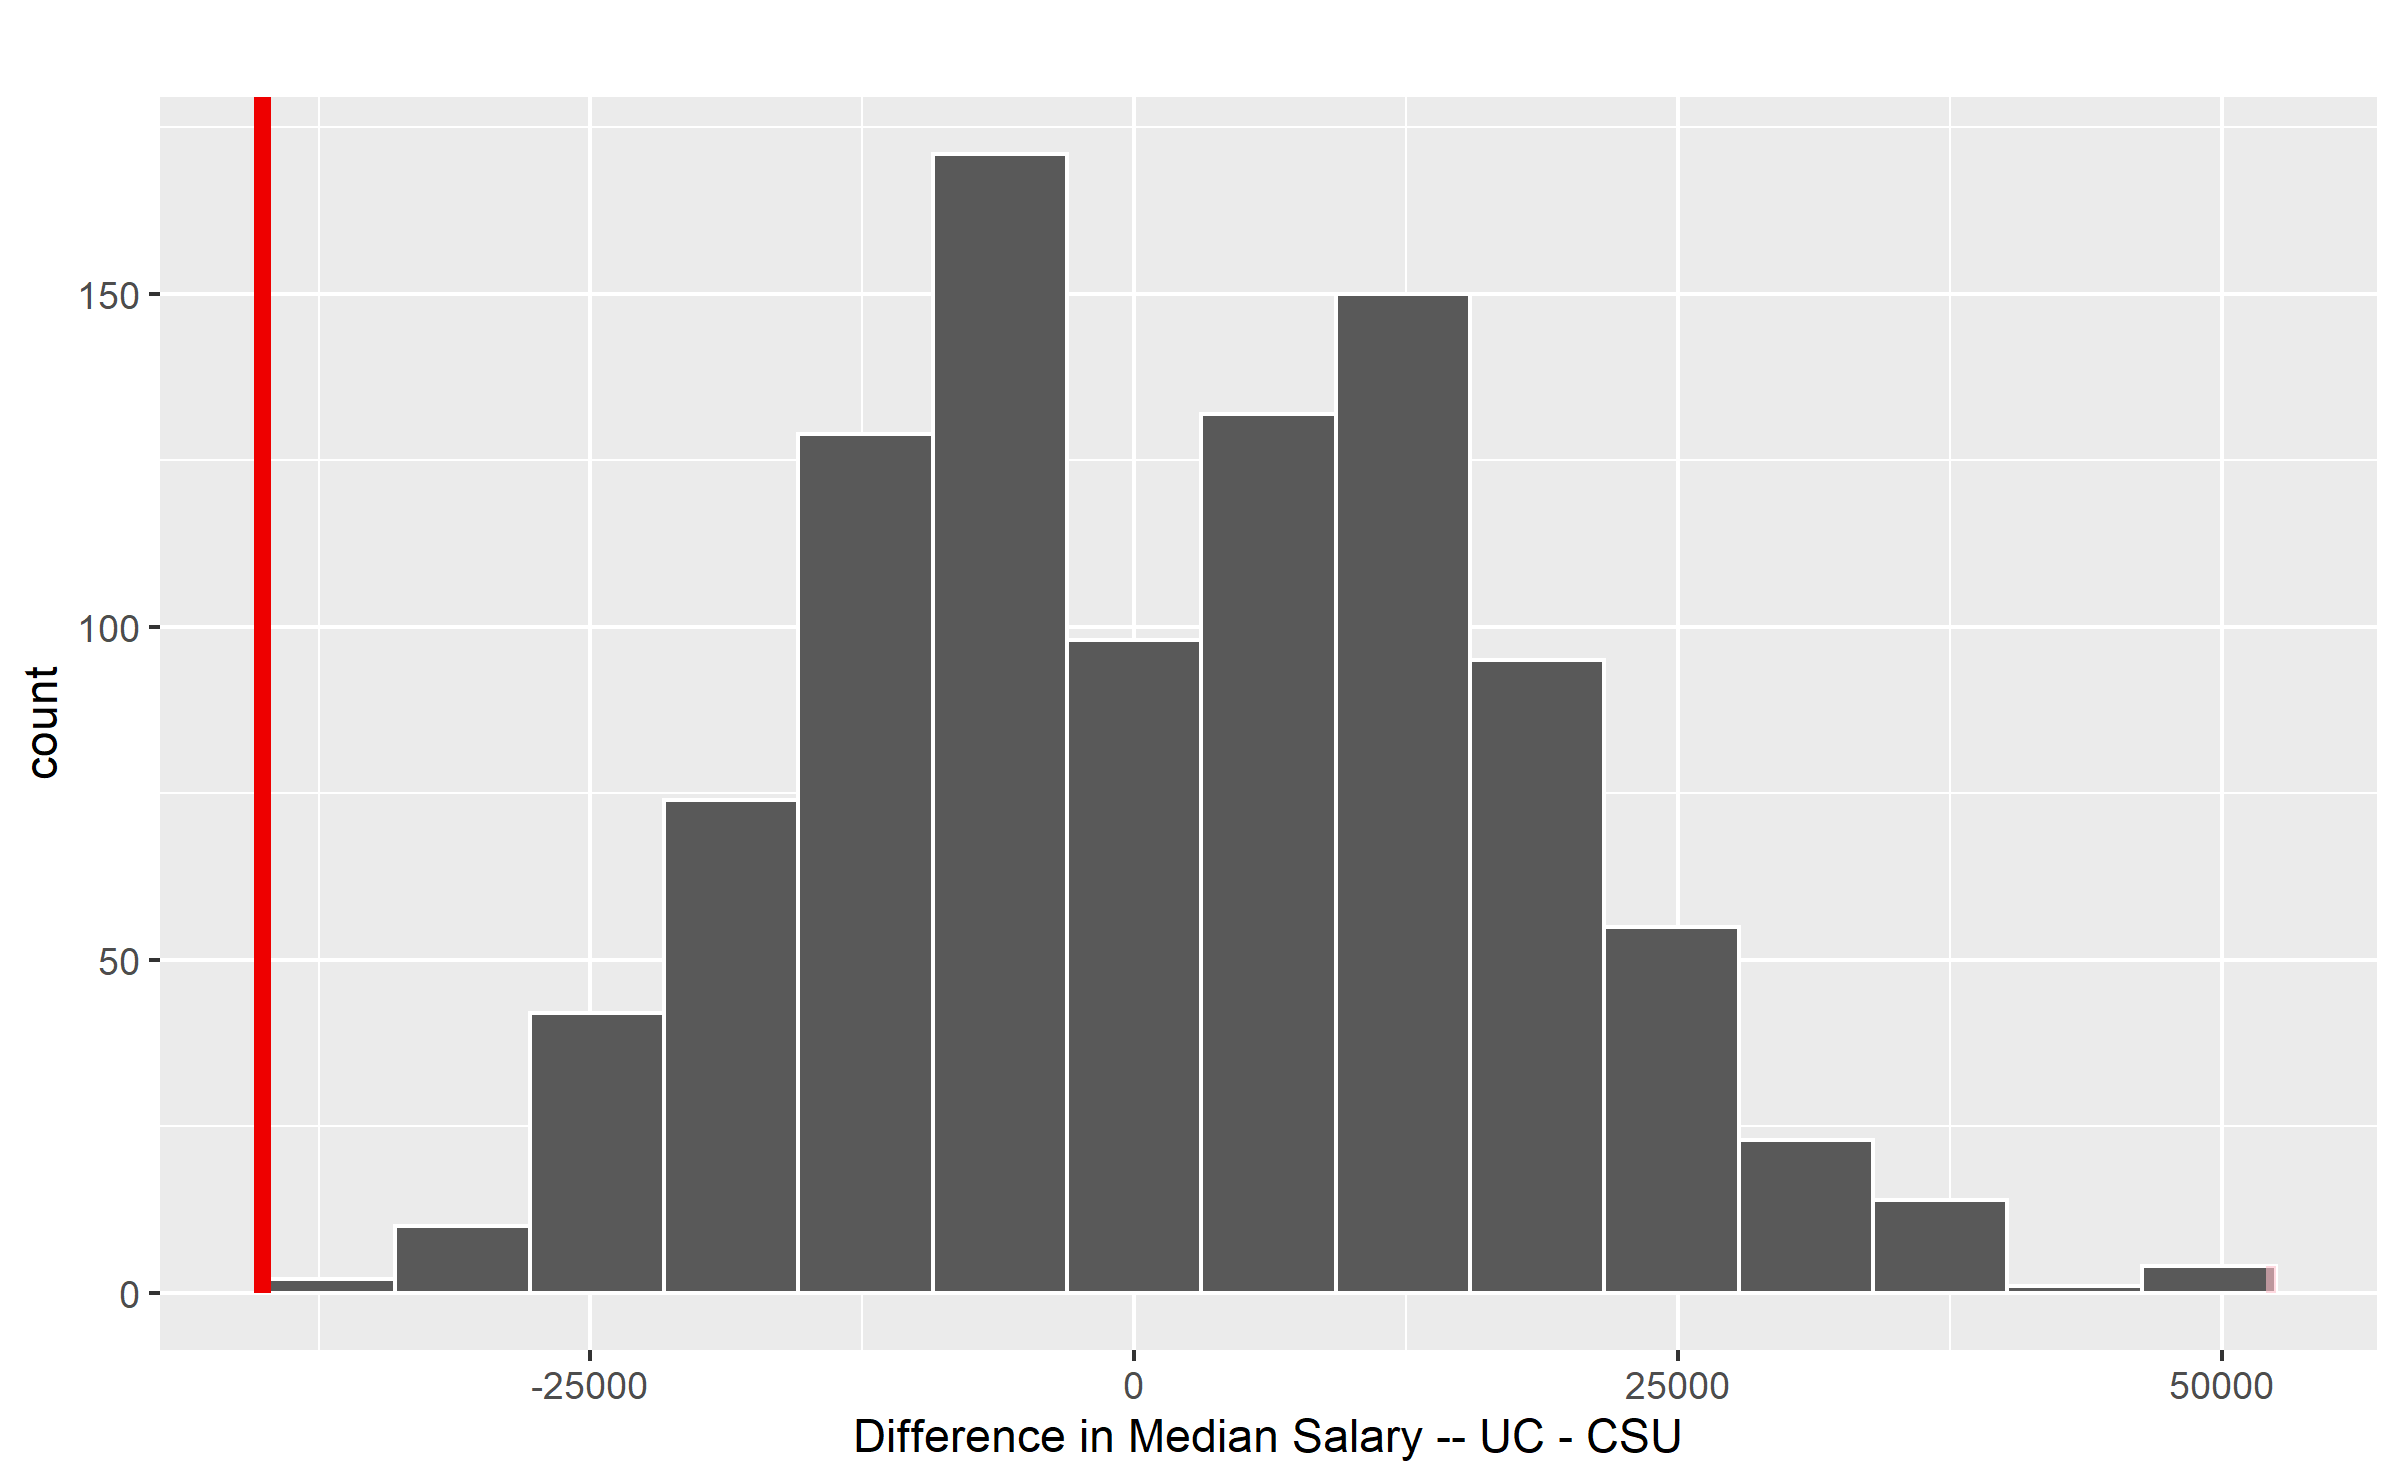
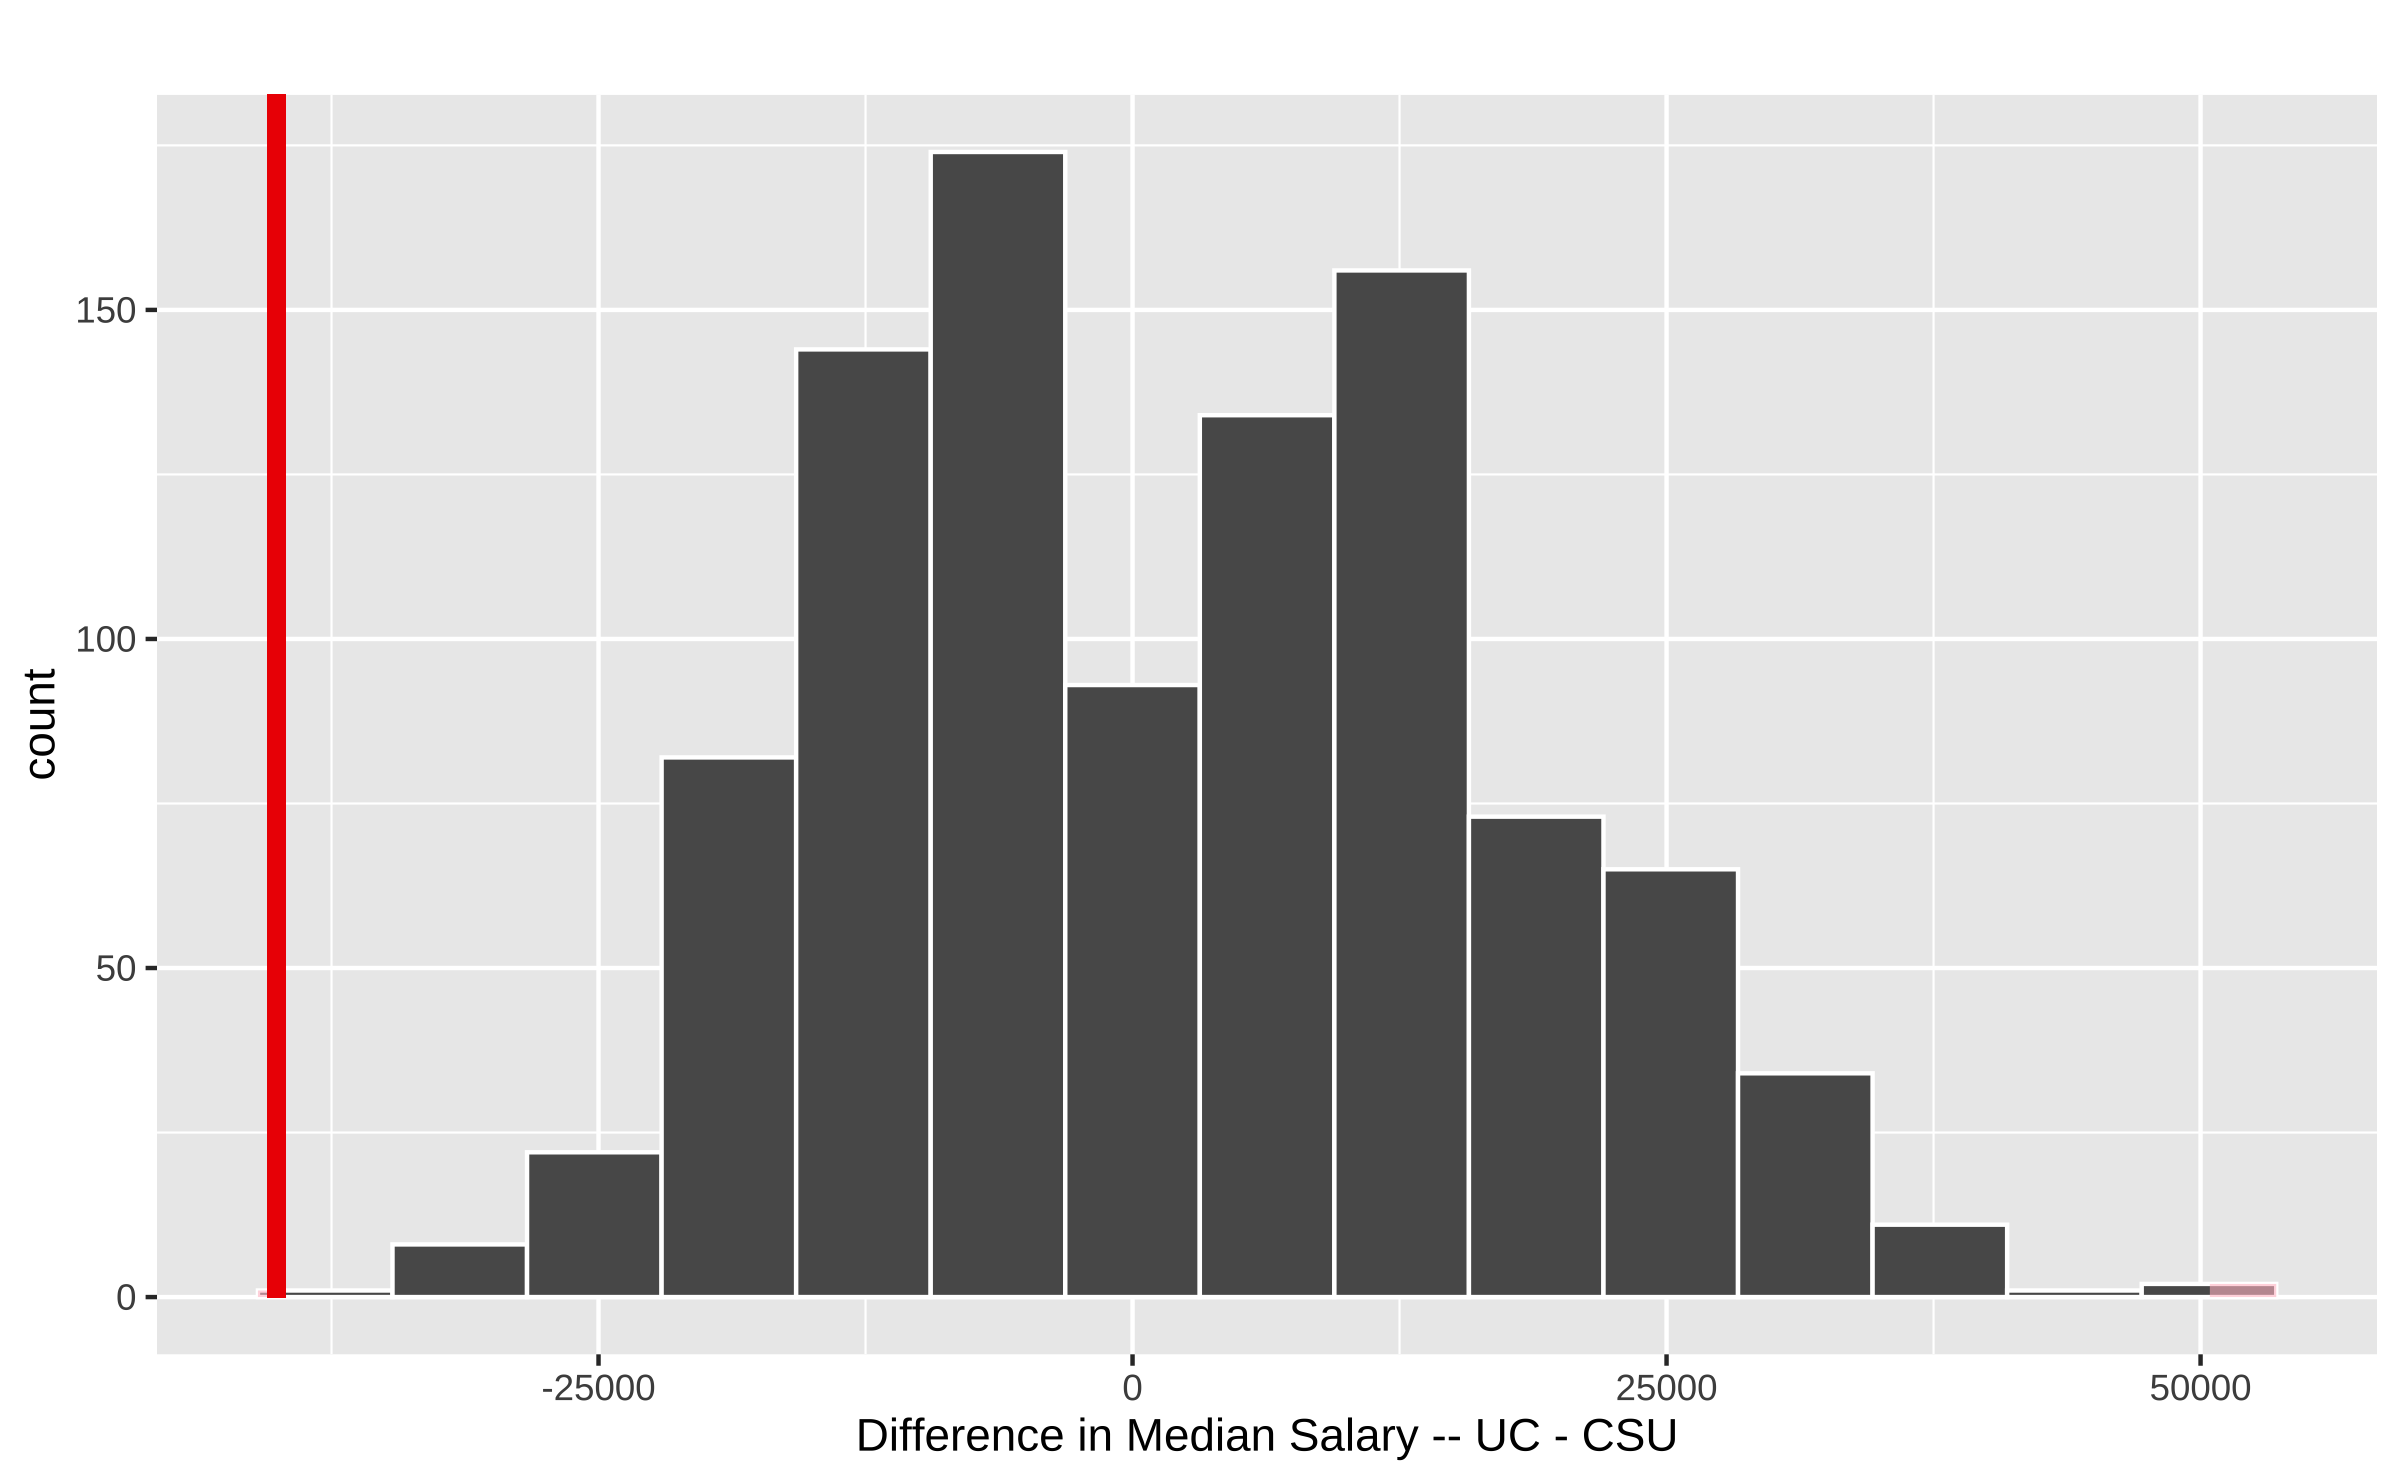
day 2 revised

diff --git a/Week 8 - Hypothesis Tests/Synchronous/day2.html b/Week 8 - Hypothesis Tests/Synchronous/day2.html
@@ -4,7 +4,7 @@
     <title>Obtaining &amp; Interpreting p-values</title>
     <meta charset="utf-8" />
     <meta name="author" content="Dr. Allison Theobold" />
-    <meta name="date" content="2021-11-02" />
+    <meta name="date" content="2021-11-09" />
     <script src="libs/header-attrs/header-attrs.js"></script>
     <link href="libs/font-awesome/css/all.css" rel="stylesheet" />
     <link href="libs/font-awesome/css/v4-shims.css" rel="stylesheet" />
@@ -19,7 +19,7 @@ class: center, middle, inverse, title-slide
 
 # Obtaining &amp; Interpreting p-values
 ### Dr. Allison Theobold
-### November 2, 2021
+### November 9, 2021
 
 ---
 
@@ -73,7 +73,7 @@ class: middle
 
 --
 
-.large[__Step 3:__ `generate()` bootstrap resamples]
+.large[__Step 3:__ `generate()` permuted resamples]
 
 --
 
@@ -246,17 +246,10 @@ get_p_value(null, obs_stat = diff_median, direction = "both")
 ```
 
 ```
-## Warning: Please be cautious in reporting a p-value of 0.
-## This result is an approximation based on the number of `reps`
-## chosen in the `generate()` step. See `?get_p_value()` for more
-## information.
-```
-
-```
-## # A tibble: 1 x 1
+## # A tibble: 1 × 1
 ##   p_value
 ##     &lt;dbl&gt;
-## 1       0
+## 1   0.002
 ```
 
 ---
@@ -268,7 +261,7 @@ class: middle, center
 --
 
 &gt; "The probability of observing a difference in median salaries as or more
-&gt; extreme than what was observed is approximately 0, if there was no
+&gt; extreme than what was observed is approximately 0.2%, if there was no
 &gt; relationship between university system and salary. 
 
 
